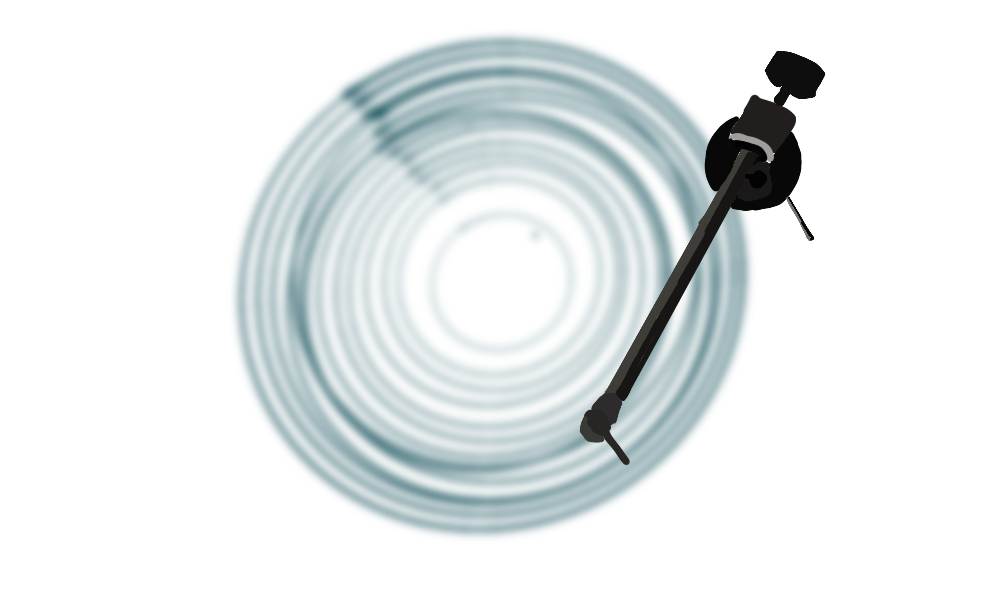
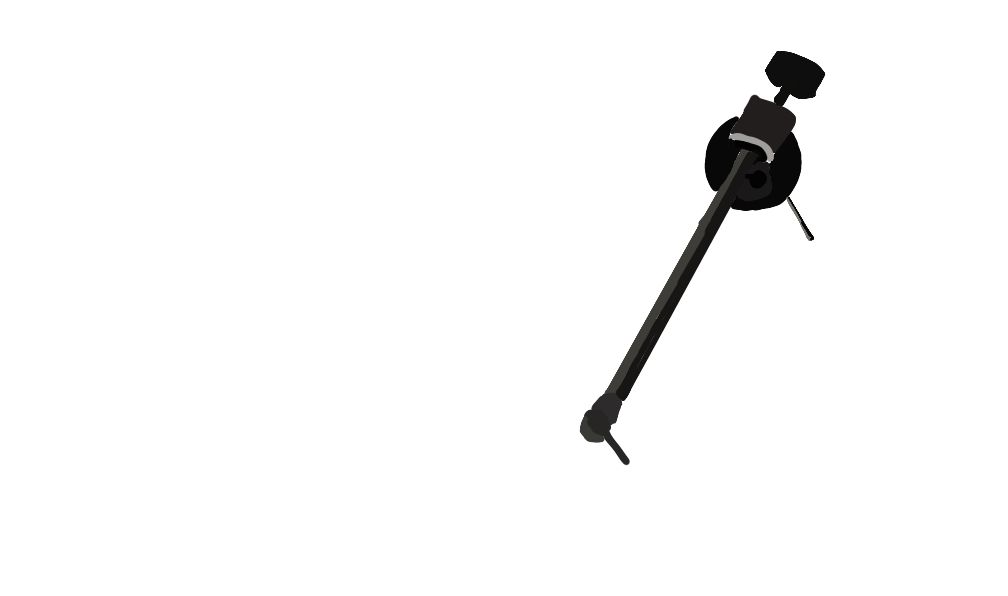
Adjusted pictures and added new versions, made it so arm is on top of record

Changed region(s): [[0.2153, 0.0604, 0.7688, 0.906]]

diff --git a/css/styles.css b/css/styles.css
@@ -19,14 +19,15 @@ html,body {
 }
 
 .record-player{
-    background-color: hsl(9deg 12% 21%);
+    background-color: var(--dark);
     background-image: url(../img/table.PNG);
     background-repeat: no-repeat;
     background-position: center;
     color: white;
-    padding: 50px;
+    /*padding: 50px;
     padding-left: 150px;
-    padding-right: 150px; 
+    padding-right: 150px; */
+    padding: 20px;
     display: grid;
     gap: 20px;
     grid-template-areas: 
@@ -38,9 +39,26 @@ html,body {
 }
 
 
-.disk, .arm{
+.record, .arm{
     grid-area: record-space;
 }
+.record{
+    position: relative;
+    animation: rotation 2s infinite linear;
+}
+
+.arm{
+    position: relative;
+}
+
+@keyframes rotation {
+    from {
+      transform: rotate(0deg);
+    }
+    to {
+      transform: rotate(359deg);
+    }
+  }
 
 .nav-menu {
     grid-area: nav;
@@ -71,18 +89,6 @@ html,body {
     color: var(--panel);
 }
 
-.disk{
-    animation: rotation 2s infinite linear;
-}
-
-@keyframes rotation {
-    from {
-      transform: rotate(0deg);
-    }
-    to {
-      transform: rotate(359deg);
-    }
-  }
 
 .bottom-area{
     background-image: url("../img/wood-pattern.png");
@@ -118,6 +124,6 @@ html,body {
 }
 
 .resume:hover {
-    background-color: var(--teal);
+    background-color: var(--record-teal);
     color: var(--record-label);
 }

diff --git a/index.html b/index.html
@@ -22,7 +22,7 @@
                     <li><a href="blog.html">Blog</a></li>
                 </ul>
             </nav>
-            <img class="disk" src="img/record.PNG" alt="record">
+            <img class="record" id="record" src="img/record.PNG" alt="record">
             <img class="arm" src="img/arm.PNG" alt="record player arm">
         </section>
         <!-- Bottom half of page where about me info will be-->
